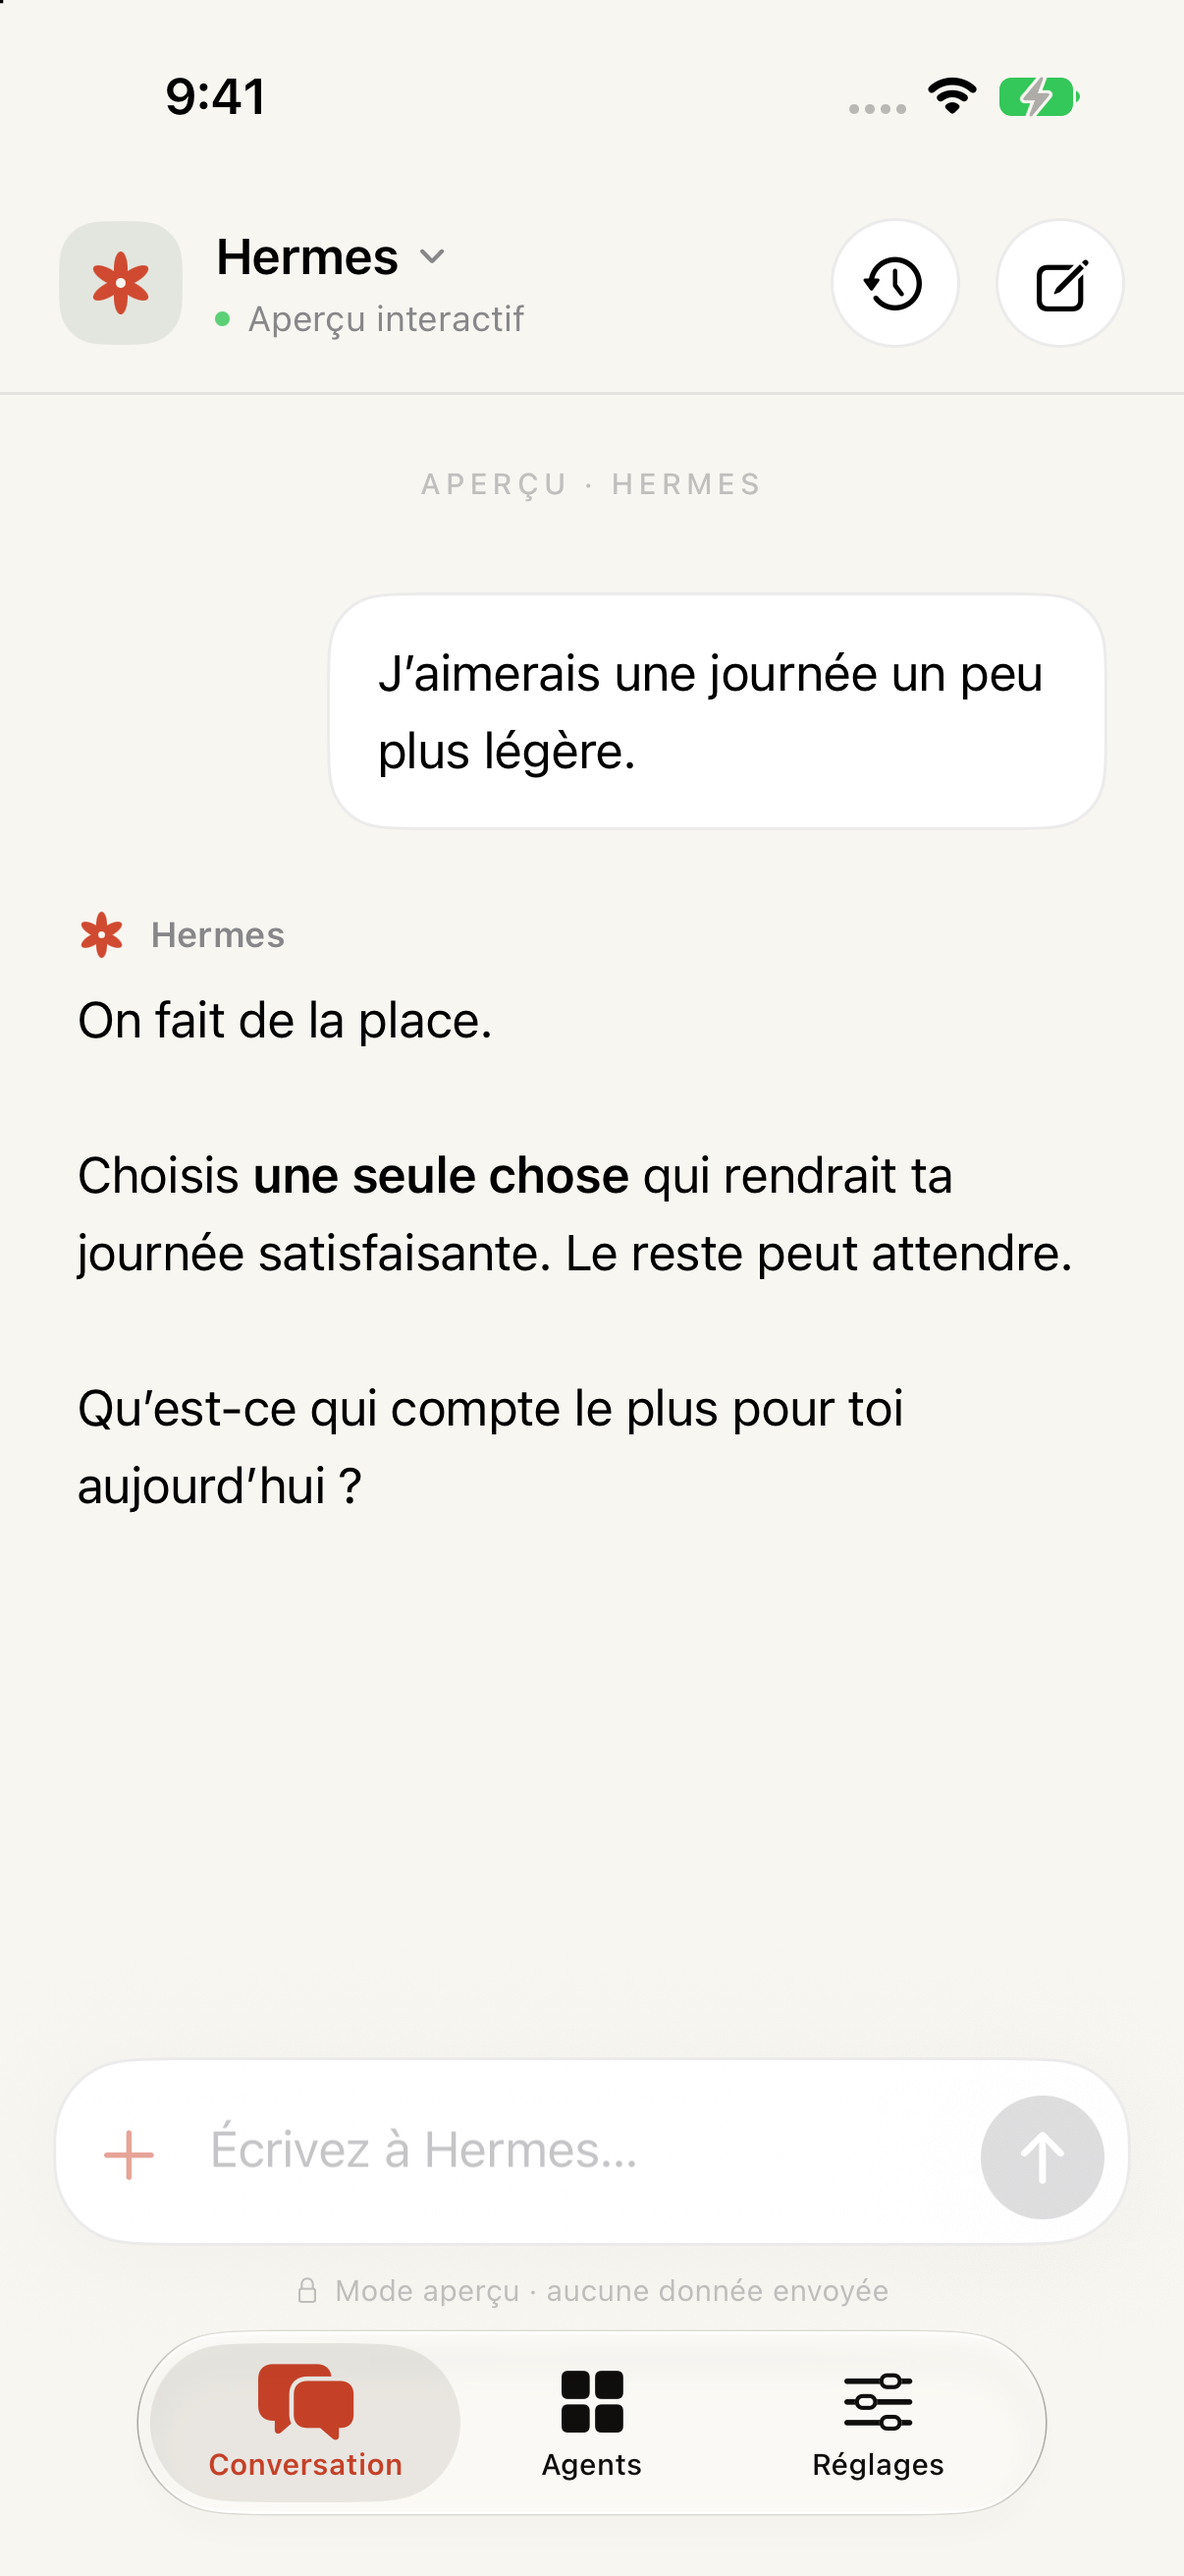
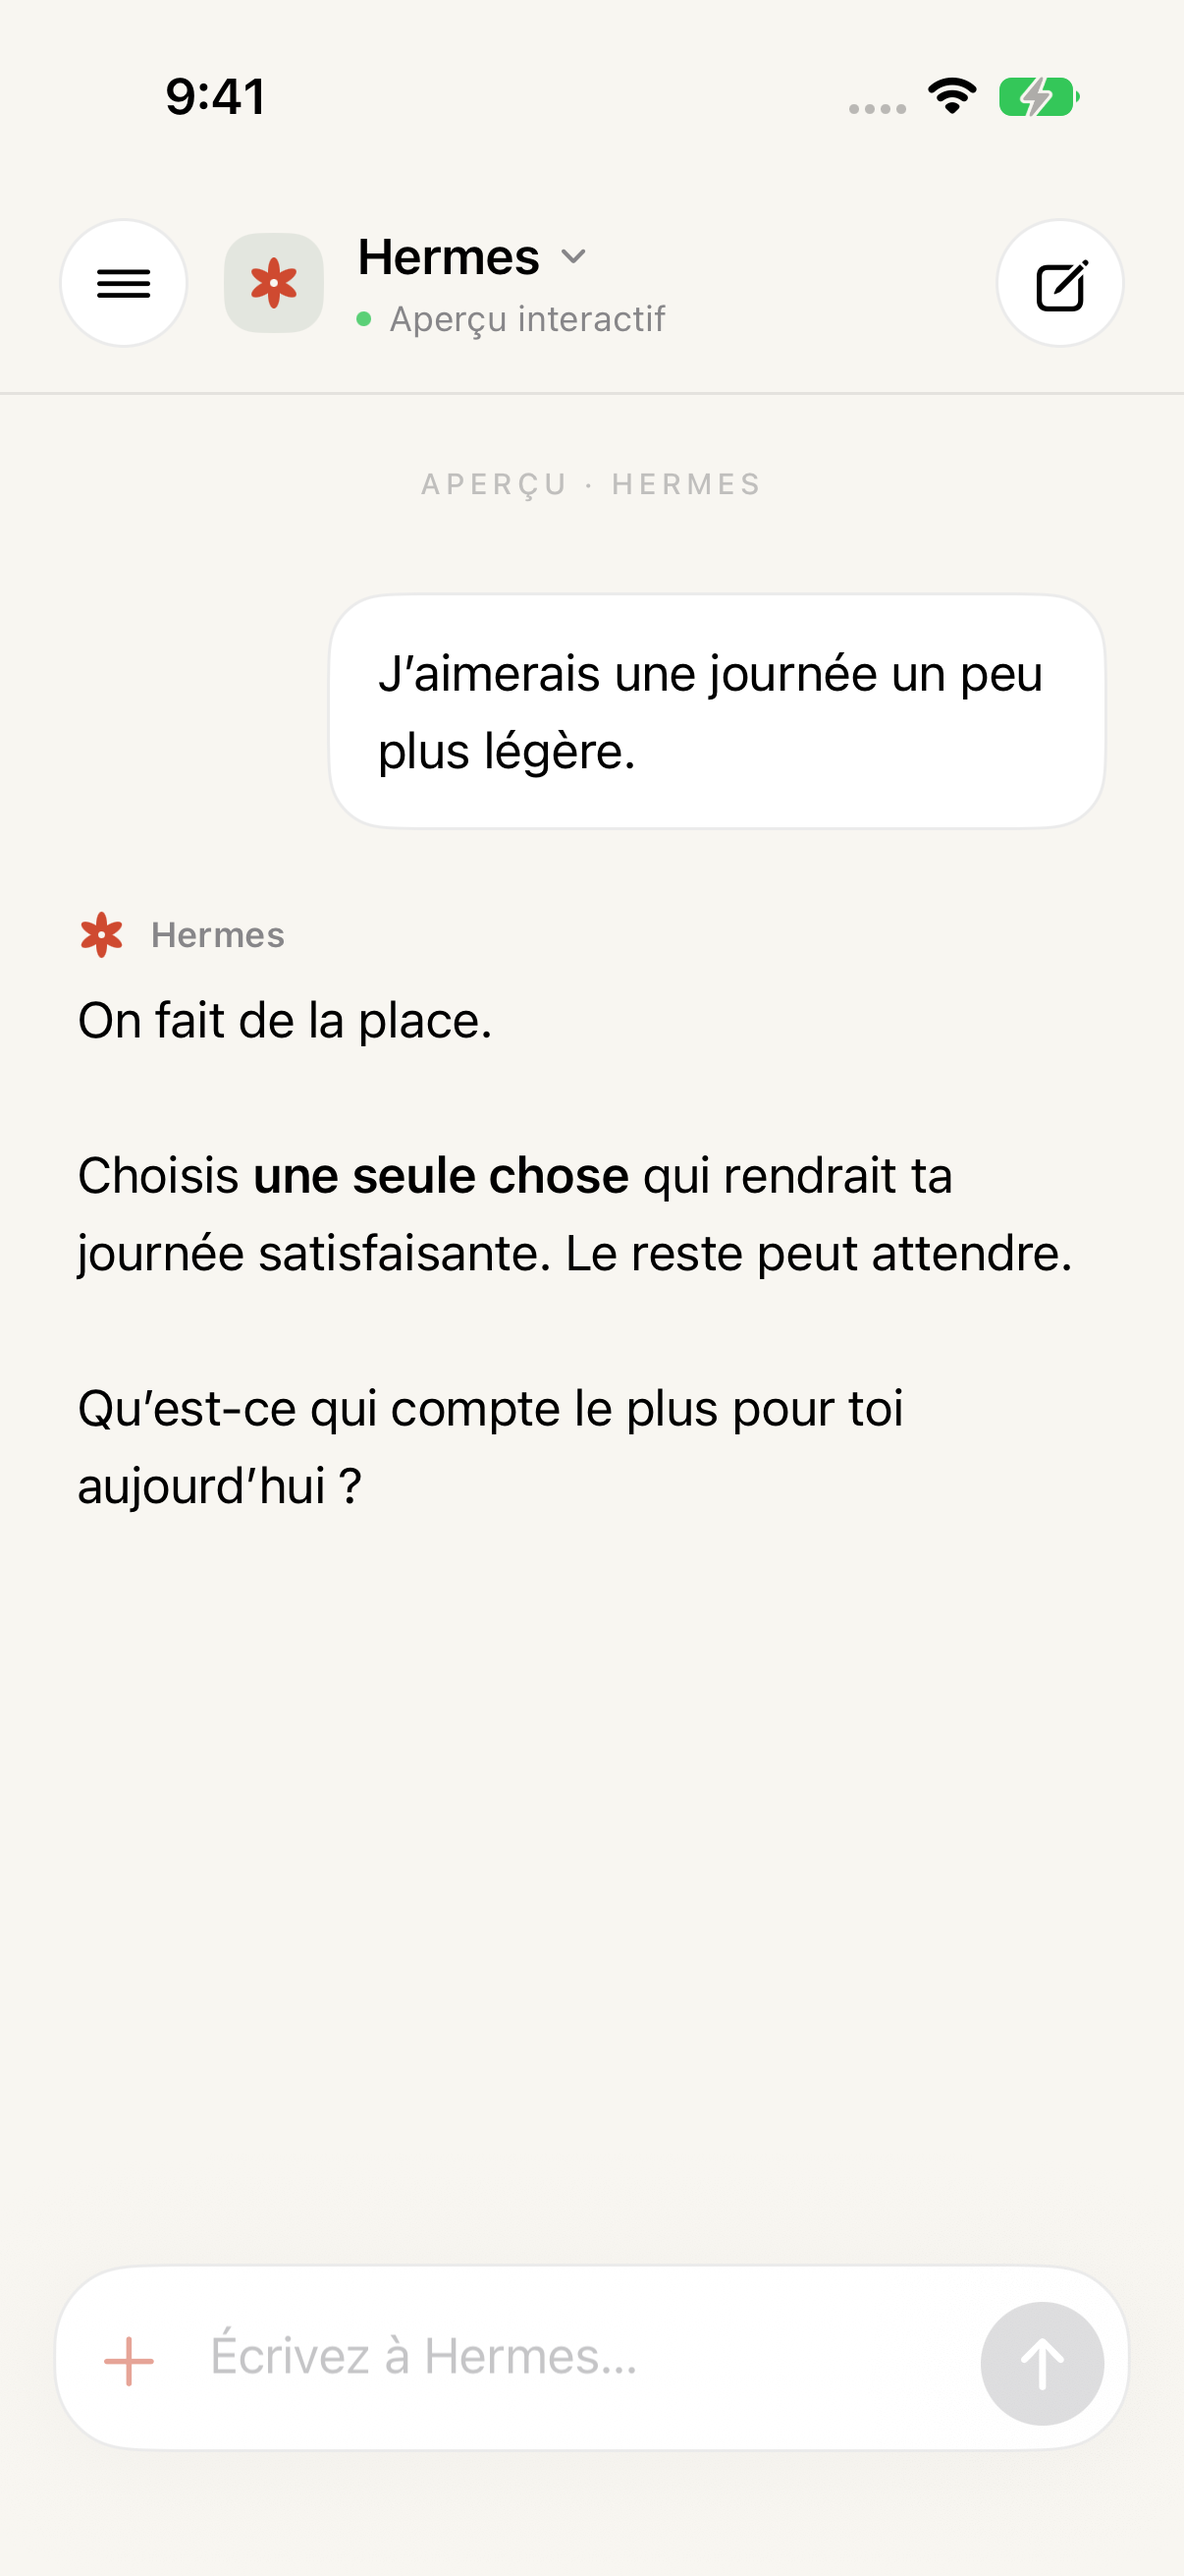
Move navigation into the chat header

diff --git a/HermesIOS/Features/ChatView.swift b/HermesIOS/Features/ChatView.swift
@@ -2,9 +2,11 @@ import SwiftUI
 
 struct ChatView: View {
     @Bindable var model: AppModel
-    @State private var showSessions = false
-    @State private var showProfiles = false
-    @State private var showRoutines = false
+    private enum Destination: String, Identifiable {
+        case history, profiles, agents, routines, settings
+        var id: String { rawValue }
+    }
+    @State private var destination: Destination?
     @State private var pinnedToBottom = true
     @FocusState private var focused: Bool
     @Environment(\.accessibilityReduceMotion) private var reduceMotion
@@ -19,9 +21,15 @@ struct ChatView: View {
             .background(AppTheme.background)
             .safeAreaInset(edge: .bottom, spacing: 0) { composer }
             .toolbar(.hidden, for: .navigationBar)
-            .sheet(isPresented: $showSessions) { SessionsView(model: model) }
-            .sheet(isPresented: $showProfiles) { ProfilePicker(model: model) }
-            .sheet(isPresented: $showRoutines) { RoutinesView(model: model) }
+            .sheet(item: $destination) { page in
+                switch page {
+                case .history: SessionsView(model: model)
+                case .profiles: ProfilePicker(model: model)
+                case .agents: AgentsView(model: model, openChat: { destination = nil })
+                case .routines: RoutinesView(model: model)
+                case .settings: SettingsView(model: model)
+                }
+            }
             .onChange(of: model.draft) { _, _ in model.draftChanged() }
             .onChange(of: model.selected?.storedID) { _, _ in pinnedToBottom = true }
         }
@@ -29,23 +37,46 @@ struct ChatView: View {
 
     private var header: some View {
         HStack(spacing: 12) {
-            Button { showProfiles = true } label: {
+            Menu {
+                Section {
+                    Button("Historique", systemImage: "clock.arrow.circlepath") { present(.history) }
+                        .accessibilityIdentifier("nav-history")
+                    Button("Agents", systemImage: "square.grid.2x2") { present(.agents) }
+                        .accessibilityIdentifier("nav-agents")
+                    Button("Routines", systemImage: "clock.badge") { present(.routines) }
+                }
+                Section {
+                    Button("Réglages", systemImage: "slider.horizontal.3") { present(.settings) }
+                        .accessibilityIdentifier("nav-settings")
+                }
+            } label: {
+                Image(systemName: "line.3.horizontal").font(.system(size: 18, weight: .medium))
+                    .frame(width: 44, height: 44).background(AppTheme.surface, in: Circle())
+                    .overlay(Circle().strokeBorder(AppTheme.line))
+            }.foregroundStyle(.primary).accessibilityLabel("Navigation")
+                .accessibilityHint("Historique, agents, routines et réglages")
+                .accessibilityIdentifier("app-navigation")
+            Button { present(.profiles) } label: {
                 HStack(spacing: 11) {
-                    AgentAvatar(name: model.agent?.name ?? "default", size: 42)
+                    AgentAvatar(name: model.agent?.name ?? "default", size: 34)
                     VStack(alignment: .leading, spacing: 4) {
                         HStack(spacing: 6) {
-                            Text(model.agent?.title ?? "Hermes").font(.headline)
+                            Text(model.agent?.title ?? "Hermes").font(.headline).lineLimit(1)
                             Image(systemName: "chevron.down").font(.system(size: 9, weight: .bold)).foregroundStyle(.secondary)
                         }
-                        ConnectionIndicator(model: model)
+                        ConnectionIndicator(model: model).lineLimit(1)
                     }
                 }
             }.buttonStyle(.plain).accessibilityLabel("Choisir un profil")
             Spacer(minLength: 4)
-            RoundButton(symbol: "clock.arrow.circlepath", label: "Historique") { showSessions = true }
             RoundButton(symbol: "square.and.pencil", label: "Nouvelle conversation") { model.newChat(); focused = true }
         }.padding(.horizontal, 20).padding(.top, 12).padding(.bottom, 16)
         .overlay(alignment: .bottom) { Rectangle().fill(AppTheme.line).frame(height: 1) }
+    }
+
+    private func present(_ page: Destination) {
+        focused = false
+        destination = page
     }
 
     private var emptyChat: some View {
@@ -147,7 +178,7 @@ struct ChatView: View {
             }
             HStack(alignment: .bottom, spacing: 10) {
                 Menu {
-                    Button("Routines", systemImage: "clock.badge") { showRoutines = true }
+                    Button("Routines", systemImage: "clock.badge") { present(.routines) }
                     Button("Mentionner un agent", systemImage: "at") { model.draft += "@"; focused = true }
                     Button("Nouvelle conversation", systemImage: "square.and.pencil") { model.newChat() }
                 } label: {
@@ -172,11 +203,6 @@ struct ChatView: View {
             }.padding(9).background(AppTheme.surface, in: RoundedRectangle(cornerRadius: 28))
                 .overlay(RoundedRectangle(cornerRadius: 28).strokeBorder(AppTheme.line))
                 .shadow(color: .black.opacity(0.025), radius: 15, y: 4)
-            HStack(spacing: 5) {
-                Image(systemName: "lock").font(.system(size: 9))
-                Text(model.demo ? "Mode aperçu · aucune donnée envoyée" : "Directement avec votre Hermes")
-                    .font(.system(size: 10))
-            }.foregroundStyle(.tertiary)
         }.padding(.horizontal, 18).padding(.top, 10).padding(.bottom, 8).frame(maxWidth: 750).frame(maxWidth: .infinity)
             .background(AppTheme.background)
     }

diff --git a/HermesIOSUITests/HermesIOSUITests.swift b/HermesIOSUITests/HermesIOSUITests.swift
@@ -8,14 +8,19 @@ final class HermesIOSUITests: XCTestCase {
         app.launchArguments = ["--demo"]
         app.launch()
         XCTAssertTrue(app.textFields["chat-composer"].waitForExistence(timeout: 10))
+        XCTAssertFalse(app.tabBars.firstMatch.exists)
+        XCTAssertLessThan(app.windows.firstMatch.frame.maxY - app.textFields["chat-composer"].frame.maxY, 100)
         capture("01-chat")
-        app.tabBars.buttons["Agents"].tap()
+        openNavigation("Agents", in: app)
         XCTAssertTrue(app.staticTexts["À chacun\nson talent."].waitForExistence(timeout: 3))
         capture("02-agents")
         app.buttons.containing(.staticText, identifier: "Atlas").firstMatch.tap()
         XCTAssertTrue(app.staticTexts.containing(NSPredicate(format: "label CONTAINS %@", "Bonjour, je suis Atlas")).firstMatch.waitForExistence(timeout: 3))
-        app.tabBars.buttons["Réglages"].tap()
+        openNavigation("Réglages", in: app)
+        XCTAssertTrue(app.buttons["close-settings"].waitForExistence(timeout: 3))
         capture("03-settings")
+        app.buttons["close-settings"].tap()
+        XCTAssertTrue(app.textFields["chat-composer"].waitForExistence(timeout: 3))
     }
 
     func testOnboarding() throws {
@@ -30,15 +35,22 @@ final class HermesIOSUITests: XCTestCase {
         XCTAssertFalse(app.buttons["connect-agent"].isEnabled)
     }
 
-    func testDraftSurvivesSwitchingTabs() throws {
+    func testDraftSurvivesHeaderNavigation() throws {
         let app = XCUIApplication()
         app.launchArguments = ["--demo"]
         app.launch()
         let composer = app.textFields["chat-composer"]
         XCTAssertTrue(composer.waitForExistence(timeout: 10))
         composer.tap(); composer.typeText("Mon brouillon reste ici")
-        app.tabBars.buttons["Agents"].tap()
-        app.tabBars.buttons["Conversation"].tap()
+        openNavigation("Agents", in: app)
+        XCTAssertTrue(app.buttons["Fermer les agents"].waitForExistence(timeout: 3))
+        app.buttons["Fermer les agents"].tap()
+        XCTAssertTrue(composer.waitForExistence(timeout: 3))
+        XCTAssertEqual(composer.value as? String, "Mon brouillon reste ici")
+        openNavigation("Réglages", in: app)
+        XCTAssertTrue(app.buttons["close-settings"].waitForExistence(timeout: 3))
+        app.buttons["close-settings"].tap()
+        XCTAssertTrue(composer.waitForExistence(timeout: 3))
         XCTAssertEqual(composer.value as? String, "Mon brouillon reste ici")
     }
 
@@ -84,6 +96,12 @@ final class HermesIOSUITests: XCTestCase {
         app.terminate(); app.launch()
         XCTAssertTrue(final.firstMatch.waitForExistence(timeout: 10))
         XCTAssertTrue(app.staticTexts["Connecté à Hermes"].waitForExistence(timeout: 30))
+    }
+
+    private func openNavigation(_ destination: String, in app: XCUIApplication) {
+        app.buttons["app-navigation"].tap()
+        XCTAssertTrue(app.buttons[destination].waitForExistence(timeout: 3))
+        app.buttons[destination].tap()
     }
 
     private func capture(_ name: String) {

diff --git a/HermesIOS/Features/SettingsView.swift b/HermesIOS/Features/SettingsView.swift
@@ -2,6 +2,7 @@ import SwiftUI
 
 struct SettingsView: View {
     @Bindable var model: AppModel
+    @Environment(\.dismiss) private var dismiss
     @State private var adding = false
     @State private var reconnecting: SavedConnection?
     @State private var removing: SavedConnection?
@@ -57,7 +58,13 @@ struct SettingsView: View {
                 if model.demo {
                     Section { Button("Quitter l’aperçu") { model.demo = false; model.selected = nil; model.profiles = []; model.transcript = Transcript() } }
                 }
-            }.scrollContentBackground(.hidden).background(AppTheme.background).navigationTitle("À votre façon")
+            }.scrollContentBackground(.hidden).background(AppTheme.background)
+                .navigationTitle("Réglages").navigationBarTitleDisplayMode(.inline)
+                .toolbar {
+                    ToolbarItem(placement: .confirmationAction) {
+                        Button("Terminé") { dismiss() }.accessibilityIdentifier("close-settings")
+                    }
+                }
                 .sheet(isPresented: $adding) { OnboardingView(model: model, adding: true) }
                 .sheet(item: $reconnecting) { OnboardingView(model: model, adding: true, existing: $0) }
                 .sheet(isPresented: $guide) { ConnectionGuide() }

diff --git a/HermesIOS/Features/RootView.swift b/HermesIOS/Features/RootView.swift
@@ -2,17 +2,12 @@ import SwiftUI
 
 struct RootView: View {
     @Bindable var model: AppModel
-    @State private var tab = 0
     var body: some View {
         Group {
             if model.connections.isEmpty && !model.demo {
                 OnboardingView(model: model)
             } else {
-                TabView(selection: $tab) {
-                    ChatView(model: model).tabItem { Label("Conversation", systemImage: "bubble.left.and.bubble.right") }.tag(0)
-                    AgentsView(model: model, openChat: { tab = 0 }).tabItem { Label("Agents", systemImage: "square.grid.2x2") }.tag(1)
-                    SettingsView(model: model).tabItem { Label("Réglages", systemImage: "slider.horizontal.3") }.tag(2)
-                }
+                ChatView(model: model)
             }
         }
         .background(AppTheme.background)

diff --git a/HermesIOS/Features/AgentsView.swift b/HermesIOS/Features/AgentsView.swift
@@ -3,6 +3,7 @@ import SwiftUI
 struct AgentsView: View {
     @Bindable var model: AppModel
     var openChat: () -> Void
+    @Environment(\.dismiss) private var dismiss
     @State private var search = ""
     @State private var creating = false
     @State private var editing: AgentProfile?
@@ -13,6 +14,7 @@ struct AgentsView: View {
             ScrollView {
                 VStack(alignment: .leading, spacing: 25) {
                     HStack {
+                        RoundButton(symbol: "xmark", label: "Fermer les agents") { dismiss() }
                         Text("VOTRE PETIT MONDE").font(.system(size: 10, weight: .semibold)).tracking(2).foregroundStyle(.secondary)
                         Spacer()
                         RoundButton(symbol: "plus", label: "Créer un agent") { creating = true }

diff --git a/README.md b/README.md
@@ -15,6 +15,7 @@ Hermès iOS connects directly to [Hermes Agent](https://github.com/NousResearch/
 - Direct connection to the official `hermes serve` backend, including Tailscale IPs, MagicDNS, HTTPS and reverse-proxy path prefixes.
 - Native password authentication, session credentials in the iOS Keychain, fresh single-use WebSocket tickets, and the existing legacy session-token path.
 - Streaming chat, Markdown and code blocks, copy/share, tool activity, cancellation, approvals, clarification and secret input.
+- Chat-first navigation: the composer sits at the bottom, with history, agents, routines and settings available from the header menu. Secondary screens open over the conversation and preserve its draft.
 - Cached conversations and per-chat drafts stay visible while reconnecting. Ordered replay deduplicates missing events. Uncertain sends are never automatically repeated.
 - Multiple saved gateways and isolated Hermes profiles.
 - Bot roster, existing canonical **Bot Chats**, profile creation/cloning, description and SOUL editing, and `@profile` suggestions.

diff --git a/docs/TESTING.md b/docs/TESTING.md
@@ -15,7 +15,7 @@ xcodebuild -scheme HermesIOS \
   -destination 'platform=iOS Simulator,name=iPhone 17 Pro' test
 ```
 
-Choose an installed simulator. The regular suite runs offline previews, captures welcome/chat/agents/settings/connection screenshots, and checks draft preservation. Native integration is skipped in this scheme. Keep code signing enabled for Keychain tests. Do not run competing XCUITest processes on the same simulator.
+Choose an installed simulator. The regular suite runs offline previews, captures welcome/chat/agents/settings/connection screenshots, checks bottom composer placement with no tab bar, and verifies draft preservation through header navigation and sheet dismissal. Native integration is skipped in this scheme. Keep code signing enabled for Keychain tests. Do not run competing XCUITest processes on the same simulator.
 
 If your simulator runtime belongs to a second Xcode installation, select it for the command with `DEVELOPER_DIR=/Applications/Xcode-beta.app/Contents/Developer` rather than changing the machine-wide selection.
 

diff --git a/docs/ARCHITECTURE.md b/docs/ARCHITECTURE.md
@@ -21,6 +21,8 @@ Saved chats and drafts render before the network is contacted. The socket stays 
 
 The view keeps stable message identities during hydration and follows the last message only while the reader is near the bottom. A tiny connection indicator reports availability; there is no full-screen sync overlay or forced clearing of chat. The composer remains editable offline.
 
+Chat is the persistent root screen. A header menu presents history, agents, routines and settings in native sheets; the profile selector and new-conversation button remain directly accessible. Opening or dismissing these screens keeps the chat view and its draft alive. No bottom tab bar sits between the composer and the device's safe area or keyboard.
+
 ## Reconnect
 
 1. Mint a new single-use ticket with the existing native session cookie.
